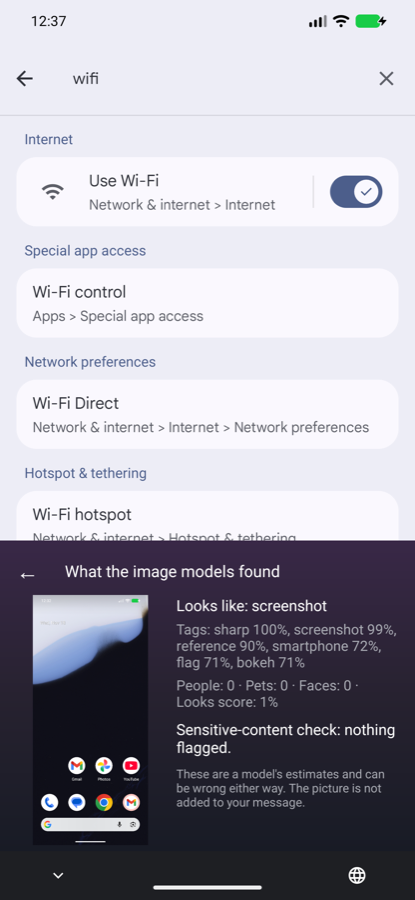
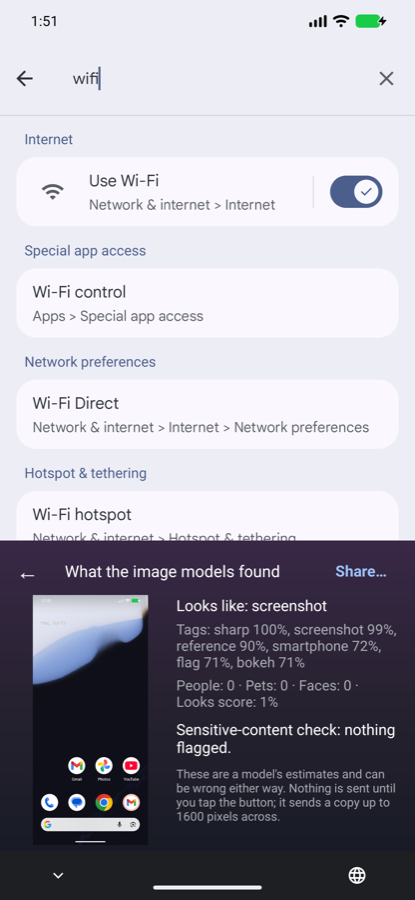
Keyboard picture panel: Insert or Share, with a warning before a flagged picture
Asked for by the owner after trying the panel on the phone. The panel's
heading row now carries one button: Insert where the focused field says it
takes image/jpeg, Share through the system sheet elsewhere or if the host
turns the insert down. A picture Moderator flagged is sent only after the
heading has turned into the warning and the button has been tapped a second
time. What is sent is the copy the models looked at, up to 1600 pixels
across; nothing is sent before the tap.

The drawing panel's send code was moved into one routine that both panels
use.

Three more tests in KeyboardImageTest, each failing first; DrawingTest still
8 of 8. Suite on the emulator: 184 run, 167 passed, 17 skipped by design,
none failed. On the phone only the first version has been tried.

diff --git a/app/src/main/java/com/example/aikeyboard/ime/KeyboardController.java b/app/src/main/java/com/example/aikeyboard/ime/KeyboardController.java
@@ -139,6 +139,9 @@ public final class KeyboardController implements KeyGridView.Listener,
     // It is the Image tools screen's own worker, used here as a plain object.
     private final ImageToolsFragment.Session pictures;
     private boolean pictureShown;
+    // What the panel's heading says instead of its title: the warning a flagged picture
+    // gets before it is sent, or that it could not be sent. 0 for neither.
+    private int pictureNotice;
     // Which field a held picture belongs to, or null when none is held. A picture is chosen
     // in the system's picker, which covers the app, so it arrives while no field has the
     // keyboard: it belongs to the field the picker was opened from, and is shown whenever
@@ -189,6 +192,7 @@ public final class KeyboardController implements KeyGridView.Listener,
             closePicture();
             render();
         });
+        views.picturePanel.pictureSend.setOnClickListener(v -> sendPicture());
         views.drawPanel.drawBack.setOnClickListener(v -> showDrawPanel(false));
         views.drawPanel.drawClear.setOnClickListener(v -> clearDrawing());
         views.drawPanel.drawInsert.setOnClickListener(v -> insertDrawing());
@@ -656,6 +660,7 @@ public final class KeyboardController implements KeyGridView.Listener,
         // No field to show it in, or the image models went away meanwhile: not kept.
         if (field == null || !imageModelUsable()) return;
         pictureFor = field;
+        pictureNotice = 0;
         pictures.open(picture);
         // Usually the picker is still covering the app, and the picture is shown when its
         // field has the keyboard again (onStartInput). If the keyboard is up now, show it.
@@ -670,7 +675,28 @@ public final class KeyboardController implements KeyGridView.Listener,
     private void closePicture() {
         pictureShown = false;
         pictureFor = null;
+        pictureNotice = 0;
         pictures.forget();
+    }
+
+    // Sends the picture the way a drawing is sent. Moderator warns and never blocks: the
+    // first tap on a flagged picture only says so, and the second is the user's decision.
+    private void sendPicture() {
+        ImageToolsFragment.State state = pictures.state().getValue();
+        if (session == null || !pictureShown || !state.analysed()) return;
+        if (state.flagged() && pictureNotice != R.string.picture_warning) {
+            pictureNotice = R.string.picture_warning;
+            renderPicturePanel();
+            return;
+        }
+        send(state.picture, ShareResultController.JPEG,
+                service.getString(R.string.image_preview), () -> {
+                    closePicture();
+                    render();
+                }, () -> {
+                    pictureNotice = R.string.image_share_failed;
+                    if (views != null && pictureShown) renderPicturePanel();
+                });
     }
 
     private static String fieldKey(EditorInfo info) {
@@ -679,8 +705,16 @@ public final class KeyboardController implements KeyGridView.Listener,
 
     private void renderPicturePanel() {
         ImageToolsFragment.State state = pictures.state().getValue();
-        views.picturePanel.pictureStatus.setText(
-                state.working ? R.string.image_working : R.string.picture_title);
+        views.picturePanel.pictureStatus.setText(state.working ? R.string.image_working
+                : pictureNotice != 0 ? pictureNotice : R.string.picture_title);
+        // The button says what will happen here: not every field takes pictures.
+        boolean takesPictures = EditorBridge.accepts(editorInfo, ShareResultController.JPEG);
+        boolean warned = pictureNotice == R.string.picture_warning;
+        views.picturePanel.pictureSend.setText(takesPictures
+                ? (warned ? R.string.picture_insert_anyway : R.string.draw_insert)
+                : (warned ? R.string.image_share_anyway : R.string.draw_share));
+        views.picturePanel.pictureSend.setEnabled(state.analysed());
+        views.picturePanel.pictureSend.setAlpha(state.analysed() ? 1f : 0.4f);
         views.picturePanel.picturePreview.setImageBitmap(state.picture);
         // INVISIBLE, not GONE: the picture keeps its share of the width while it is looked at.
         views.picturePanel.pictureResult.setVisibility(
@@ -749,37 +783,44 @@ public final class KeyboardController implements KeyGridView.Listener,
                         ? R.string.draw_insert : R.string.draw_share);
     }
 
-    // The tap is the user's consent. The picture goes into the field if the field takes
-    // pictures; if it does not, or the host app turns it down, the share sheet is offered.
     private void insertDrawing() {
         if (session == null || views == null) return;
-        Bitmap drawing = views.drawPanel.drawSurface.render();
-        InputSession drawnFor = session;
+        send(views.drawPanel.drawSurface.render(), ShareResultController.PNG,
+                service.getString(R.string.shape_other), () -> {
+                    closeDrawing();
+                    render();
+                }, () -> {
+                    drawStatus = R.string.image_share_failed;
+                    if (views != null && drawShown) renderDrawPanel();
+                });
+    }
+
+    // How a drawing or a chosen picture leaves the keyboard. The tap is the user's consent.
+    // The picture goes into the field if the field takes pictures; if it does not, or the
+    // host app turns it down, the share sheet is offered.
+    private void send(Bitmap picture, String mime, String label, Runnable sent,
+            Runnable failed) {
+        InputSession sentFor = session;
         EditorInfo field = editorInfo;
-        String label = service.getString(R.string.shape_other);
         app.io.execute(() -> {
             Uri uri;
             try {
-                uri = ShareResultController.writePicture(service, drawing,
-                        ShareResultController.PNG);
+                uri = ShareResultController.writePicture(service, picture, mime);
             } catch (IOException e) {
                 uri = null;
             }
             Uri written = uri;
             ContextCompat.getMainExecutor(service).execute(() -> {
                 // The field changed while the picture was being written: nothing is sent.
-                if (session != drawnFor) return;
+                if (session != sentFor) return;
                 if (written == null) {
-                    drawStatus = R.string.image_share_failed;
-                    if (views != null && drawShown) renderDrawPanel();
+                    failed.run();
                     return;
                 }
-                if (!editor.commitContent(field, written, ShareResultController.PNG, label)) {
-                    service.share(ShareResultController.shareIntent(written,
-                            ShareResultController.PNG));
+                if (!editor.commitContent(field, written, mime, label)) {
+                    service.share(ShareResultController.shareIntent(written, mime));
                 }
-                closeDrawing();
-                render();
+                sent.run();
             });
         });
     }

diff --git a/app/src/androidTest/java/com/example/aikeyboard/KeyboardImageTest.java b/app/src/androidTest/java/com/example/aikeyboard/KeyboardImageTest.java
@@ -1,6 +1,7 @@
 // The keyboard's picture button and panel. The button is offered only while an image model
 // can really run and the field allows AI. A picture chosen in the system's picker comes back
-// to the keyboard, and what the image models found is shown there; the field is not touched.
+// to the keyboard, and what the image models found is shown there; the field is not touched
+// until the user taps Insert, and a flagged picture is sent only after a warning.
 // The system's picker cannot be driven by a test, so a picture is handed over the way the
 // picker screen hands it over once it has read the chosen file.
 package com.example.aikeyboard;
@@ -9,9 +10,11 @@ import static androidx.test.platform.app.InstrumentationRegistry.getInstrumentat
 import static org.junit.Assert.assertEquals;
 import static org.junit.Assert.assertFalse;
 import static org.junit.Assert.assertNotNull;
+import static org.junit.Assert.assertNull;
 import static org.junit.Assert.assertTrue;
 
 import android.graphics.Bitmap;
+import android.graphics.BitmapFactory;
 import android.widget.EditText;
 
 import androidx.lifecycle.Lifecycle;
@@ -26,12 +29,14 @@ import androidx.test.uiautomator.Until;
 
 import com.example.aikeyboard.data.AppSettings;
 import com.example.aikeyboard.data.SettingsRepository;
+import com.example.aikeyboard.models.ModelRegistry;
 
 import org.junit.After;
 import org.junit.Before;
 import org.junit.Test;
 import org.junit.runner.RunWith;
 
+import java.io.InputStream;
 import java.util.concurrent.atomic.AtomicBoolean;
 
 @RunWith(AndroidJUnit4.class)
@@ -41,6 +46,8 @@ public class KeyboardImageTest {
     private static final String IME_ID = PKG + "/.ime.AiInputMethodService";
     private static final long TIMEOUT_MS = 8000;
     private static final long RUN_MS = 60_000;
+    private static final String THRESHOLD =
+            AppSettings.modelSettingKey("moderator", ModelRegistry.MODERATOR_THRESHOLD);
 
     private final AppContainer app = TestModels.container();
     private final SettingsRepository settings = app.settings;
@@ -59,6 +66,9 @@ public class KeyboardImageTest {
             settings.setModelEnabled(other, false);
         }
         use(true);
+        settings.setInt(THRESHOLD, ModelRegistry.MODERATOR_THRESHOLD_DEFAULT);
+        EditorTestActivity.lastContentMime = null;
+        EditorTestActivity.lastContentUri = null;
         settings.setBoolean(AppSettings.AI_ENABLED, true);
         assertTrue(TestModels.await(() -> settings.latest().modelActive("moderator"), 5000));
         scenario = ActivityScenario.launch(EditorTestActivity.class);
@@ -68,6 +78,7 @@ public class KeyboardImageTest {
     public void tearDown() throws Exception {
         if (scenario != null) scenario.close();
         use(false);
+        settings.setInt(THRESHOLD, ModelRegistry.MODERATOR_THRESHOLD_DEFAULT);
         settings.setBoolean(AppSettings.AI_ENABLED, false);
     }
 
@@ -178,6 +189,70 @@ public class KeyboardImageTest {
         String kind = shown("picture_kind", RUN_MS);
         assertNotNull("the picture chosen while away was not shown on return", kind);
         assertTrue(kind, kind.startsWith("Looks like"));
+    }
+
+    @Test
+    public void aCheckedPictureIsInsertedWhereTheFieldTakesPictures() throws Exception {
+        focus("field_rich");
+        handOver();
+        assertNotNull(shown("picture_sensitivity", RUN_MS));
+        assertNull("nothing is sent until Insert is tapped", EditorTestActivity.lastContentUri);
+        UiObject2 send = device.findObject(By.res(PKG, "picture_send"));
+        assertEquals("the button says what will happen in this field", "Insert", send.getText());
+
+        send.click();
+
+        assertTrue("the editor never received the picture", TestModels.await(
+                () -> EditorTestActivity.lastContentUri != null, TIMEOUT_MS));
+        assertEquals("image/jpeg", EditorTestActivity.lastContentMime);
+        // The editor was given a read grant with it: the picture really opens.
+        try (InputStream in = getInstrumentation().getTargetContext().getContentResolver()
+                .openInputStream(EditorTestActivity.lastContentUri)) {
+            assertNotNull("what arrived is not a picture", BitmapFactory.decodeStream(in));
+        }
+        assertTrue("the panel closes and the keys come back",
+                device.wait(Until.gone(By.res(PKG, "picture_panel")), TIMEOUT_MS));
+    }
+
+    @Test
+    public void whereTheFieldTakesNoPicturesTheShareSheetIsOffered() throws Exception {
+        focus("field_plain");
+        handOver();
+        assertNotNull(shown("picture_sensitivity", RUN_MS));
+        UiObject2 send = device.findObject(By.res(PKG, "picture_send"));
+        assertEquals("Share…", send.getText());
+
+        send.click();
+
+        assertTrue("the system share sheet did not open",
+                device.wait(Until.gone(By.res(PKG, "field_plain")), 10_000));
+        assertNull("a plain text field must not be handed a picture",
+                EditorTestActivity.lastContentUri);
+        device.pressBack();
+        assertTrue(device.wait(Until.hasObject(By.res(PKG, "field_plain")), 10_000));
+    }
+
+    @Test
+    public void aFlaggedPictureIsSentOnlyAfterAWarningAndASecondTap() throws Exception {
+        // Zero is the model's own threshold at its strictest: every picture is flagged.
+        settings.setInt(THRESHOLD, 0);
+        assertTrue(TestModels.await(() -> settings.latest().integer(THRESHOLD, -1) == 0, 5000));
+        focus("field_rich");
+        handOver();
+        String check = shown("picture_sensitivity", RUN_MS);
+        assertNotNull(check);
+        assertTrue(check, check.contains("may contain nudity"));
+
+        device.findObject(By.res(PKG, "picture_send")).click();
+
+        UiObject2 again = device.wait(Until.findObject(
+                By.res(PKG, "picture_send").text("Insert anyway")), TIMEOUT_MS);
+        assertNotNull("a flagged picture needs a warning before it is sent", again);
+        assertNull("the first tap only warns", EditorTestActivity.lastContentUri);
+
+        again.click();
+        assertTrue("after the warning the choice is the user's", TestModels.await(
+                () -> EditorTestActivity.lastContentUri != null, TIMEOUT_MS));
     }
 
     // The whole trip through the system's own picker. Only on request (-e picker true) and

diff --git a/app/src/main/java/com/example/aikeyboard/ui/tools/ImageToolsFragment.java b/app/src/main/java/com/example/aikeyboard/ui/tools/ImageToolsFragment.java
@@ -76,6 +76,11 @@ public final class ImageToolsFragment extends Fragment {
         public boolean analysed() {
             return picture != null && !working;
         }
+
+        /** Whether the sensitive-content check ran on this picture and flagged it. */
+        public boolean flagged() {
+            return sensitivity != null && sensitivity.flagged;
+        }
     }
 
     /**

diff --git a/PROGRESS.md b/PROGRESS.md
@@ -15,7 +15,7 @@ The execution plan is `~/.claude/plans/i-have-added-a-whimsical-mist.md` (approv
 | 8 — Visual and accessibility audit | Done (emulator). Device rows blocked | 160 unit tests, 151 instrumented tests. Screens set beside both reference images and brought closer: drawn icons, grouped cards, the reference's switches, emoji chips, an app icon. The audit found the AI panel had outgrown the keyboard; every panel now keeps the keyboard's footprint. The app's screens pass Google's accessibility checks; keyboard controls are labelled and full-size; contrast and reduced motion are tested; large text checked at 1.3×. A pass with TalkBack on waits for the phone. |
 | 9 — Complete-version hardening | Emulator part done. **Phone session open** | 161 unit tests, 158 instrumented tests (145 passed, 13 opt-in probes skipped) at the end of the milestone; clean build, 700.1 MB debug APK. Model runs send and receive nothing; nothing typed is kept on disk or in the log; the keyboard survives its process being killed, sleep and wake, rotation, and a cold start offline; overlapping download, delete and reset behave. Every check that needs a real phone (chat apps, latency, memory, battery, a real voice, TalkBack) is blocked until one is connected. |
 | Phone session | **In progress** | Started 18 Nov 2026 on a OnePlus CPH2423 (Android 15, 12 GB). Done without the owner's hands: install, all 13 models running, Clear on the phone's GPU, memory, network silence. Waiting for the owner to enable the keyboard. See the validation report, "Phone session". |
-| Picture panel in the keyboard | Done (emulator). Not yet on the phone | Added 18 Nov 2026 at the owner's request, during the phone session: a picture button on the keyboard while Eye or Moderator is on; the chosen picture is described and checked in a keyboard panel. Seven tests, one of them through Android's real picker. See the validation report. |
+| Picture panel in the keyboard | Done (emulator). Phone results not recorded | Added 18 Nov 2026 at the owner's request, during the phone session: a picture button on the keyboard while Eye or Moderator is on; the chosen picture is described and checked in a keyboard panel, and can be inserted or shared from there, a flagged one only after a warning. Ten tests, one of them through Android's real picker. See the validation report. |
 | Final review | Done. Ten small findings deferred | One independent review of the whole branch; one fix pass (see "Final review"). After it: 161 unit tests, 171 instrumented tests (158 passed, 13 opt-in probes skipped, none failed), lint 0 errors, clean build. The review found that the keyboard's AI could read a password field while the on-screen keyboard was hidden; that is fixed and tested from the field's side. |
 
 ## Environment
@@ -142,13 +142,17 @@ Rulings from the phone session:
 
 Rulings for the picture panel, added on 18 Nov 2026 at the owner's request:
 
-98. **Picture panel: it shows what the image models found and does nothing else.** The owner asked for a picture option on the keyboard with the analysis shown there. Inserting or sharing the picture from the panel was not asked for and is not built; the picture is attached with the chat app as usual. Cost if wrong: one more step for someone who wanted to send it from the keyboard; adding Insert or Share is a contained addition, as the drawing panel already has both.
+98. **Picture panel: first built to show what the image models found and nothing else; sending was added the same day when the owner asked for it.** It now sends the way the drawing panel does: Insert where the field says it takes `image/jpeg`, Share through the system sheet elsewhere or if the host turns the insert down. Cost if wrong: none; the two-step build cost one extra install on the phone.
 99. **The picker is opened by a screen of the app that shows nothing of its own** (`ui/tools/ImagePickActivity`), in a task of its own so that closing it returns to the app being typed into. It reads the picture before it closes, because on some devices the right to read ends with the screen that was given it. Cost if wrong: on a device where the keyboard does not come back by itself, the user taps the field and the result is there.
 100. **A picture belongs to the field the picker was opened from.** It is shown whenever that field has the keyboard and AI may run there; it is let go of on Back, when any other real field takes the keyboard, or when the image models go off. A window with nothing to type into decides nothing. It is not dropped when the keyboard merely hides. Cost if wrong: one picture of at most 1600 pixels can stay in memory while the keyboard is hidden, until another field is used or the process ends.
 101. **The keyboard uses the Image tools screen's own worker and its result text** (`ImageToolsFragment.Session`, `showResult`) rather than a second copy. Cost if wrong: the keyboard depends on a class in `ui/tools`; pull the shared part out if a third user appears.
 102. **The picture button takes the spare place beside the draw button** on the tool row (ruling 63 kept two places each side of the AI control). Cost if wrong: swap two buttons.
 103. **Android's real picker is driven by one opt-in test, on an emulator only.** The picker shows the device's own pictures, so the test must never be run on somebody's phone; on the phone the owner tries it by hand. Cost if wrong: the real picker is not exercised by the normal suite.
 104. **Noticed and not changed: the microphone permission screen has no task of its own.** If the companion app is open in the background, closing that screen probably lands on the companion app instead of the app being typed into. Not verified. Cost if wrong: a confusing detour the first time someone dictates. The remedy is the one line `ImagePickActivity` has.
+105. **A flagged picture is sent only after a warning and a second tap.** Moderator warns and never blocks (ruling 55). In the keyboard there is no dialog: the first tap changes the heading to the warning and the button to "Insert anyway" or "Share anyway". Cost if wrong: someone taps twice quickly without reading; the choice was always theirs.
+106. **What is sent is the copy the models looked at, up to 1600 pixels across, as a JPEG** (ruling 54), and the panel says so. Cost if wrong: someone wanting the original at full size attaches it with the chat app instead.
+107. **The drawing panel and the picture panel share one send routine.** The drawing's own code was moved into it rather than copied. Cost if wrong: none; `DrawingTest` covers the drawing side.
+108. **Never auto-send still holds, with one thing to know:** Insert hands the picture to the app, and some chat apps send an inserted picture at once instead of attaching it to the draft. The tap on Insert is the user's decision, as it is for a drawing. Cost if wrong: a picture goes out one step earlier than someone expected in such an app; not seen yet, to be watched on the phone.
 
 ## Final review
 

diff --git a/docs/validation-report.md b/docs/validation-report.md
@@ -488,7 +488,7 @@ The test changes made during the phone session were then run as the whole suite 
 
 ## Picture panel in the keyboard (added 18 Nov 2026)
 
-Asked for by the owner during the phone session: a picture button on the keyboard while the image models are on, with the result shown in the keyboard. Android's picker is a full-screen system screen, so the keyboard steps aside while a picture is chosen and comes back with the result. The panel shows what Eye and Moderator found; it does not insert or share the picture.
+Asked for by the owner during the phone session: a picture button on the keyboard while the image models are on, with the result shown in the keyboard. Android's picker is a full-screen system screen, so the keyboard steps aside while a picture is chosen and comes back with the result. The panel shows what Eye and Moderator found. At the owner's next request it also sends the picture: Insert where the field takes pictures, Share elsewhere, and a flagged picture only after a warning and a second tap.
 
 | Check | Result | Target | Evidence |
 |---|---|---|---|
@@ -498,12 +498,18 @@ Asked for by the owner during the phone session: a picture button on the keyboar
 | A chosen picture is described and checked in the keyboard; the draft is untouched; Back returns to the keys | failed, then passed | EMU-37B | `KeyboardImageTest.aChosenPictureIsDescribedAndCheckedInTheKeyboard` |
 | A picture chosen while the keyboard is away is shown when it returns | failed, then passed | EMU-37B | `KeyboardImageTest.aPictureChosenWhileTheKeyboardIsAwayIsShownWhenItReturns`. The first two versions of the feature failed this: Android starts a field's input twice within milliseconds on the way back, and a window with nothing to type into can hold the keyboard for a moment. A picture is now tied to the field the picker was opened from |
 | Moving to another field closes the panel and forgets the picture | failed, then passed | EMU-37B | `KeyboardImageTest.movingToAnotherFieldClosesThePanelAndForgetsThePicture` |
+| A checked picture is inserted where the field takes pictures; nothing is sent before the tap; the panel then closes | failed, then passed | EMU-37B | `KeyboardImageTest.aCheckedPictureIsInsertedWhereTheFieldTakesPictures`: the debug host's picture field received an `image/jpeg` it could open |
+| Where the field takes no pictures the button says Share and opens the system share sheet | failed, then passed | EMU-37B | `KeyboardImageTest.whereTheFieldTakesNoPicturesTheShareSheetIsOffered` |
+| A flagged picture is sent only after a warning and a second tap | failed, then passed | EMU-37B | `KeyboardImageTest.aFlaggedPictureIsSentOnlyAfterAWarningAndASecondTap`, with Moderator's threshold at zero so that a harmless picture is flagged (no explicit imagery is used) |
+| The drawing panel still inserts and shares after its send path was shared with the picture panel | passed | EMU-37B | `DrawingTest` 8 of 8 |
 | The whole trip through Android's real picker | passed | EMU-37B | `KeyboardImageTest.theSystemsPickerHandsAChosenPictureBackToTheKeyboard`, opt-in with `-e picker true`, three runs. Emulator only: the picker shows the device's own pictures, so it must not be run on a phone |
 | From another app's field: the picker returns to that app, not to AI Keyboard, and the keyboard comes back by itself with the result | passed by hand | EMU-37B | Settings search, driven over adb: picture button, picker, a picture, Done. Focus returned to Settings search; the panel read "Looks like: screenshot" and "Sensitive-content check: nothing flagged." `docs/evidence/screenshots/picture_panel_keyboard.png` |
-| On the phone | not run | PHONE | The build with this feature has not been installed on the phone yet |
+| On the phone, the first version (analysis only) | observed, not reported | PHONE | Installed on 18 Nov 2026. A minute later the app's memory on the phone rose from about 140 MB to 1.0 GB for some twenty seconds and fell back: the image models loading, running and being let go of in the keyboard's process. No crash, the same process throughout, the keyboard still selected. The owner then asked for sending from the panel. What they saw on screen was not reported |
+| On the phone, the build with sending | not run | PHONE | — |
+| Inserting into a real chat app | not run | PHONE | What a chat app does with an inserted picture (attach it, or send it at once) is that app's choice and has not been seen |
 | A file that cannot be read as a picture; the screen turned while the picker is open | not run | — | The code is there (a message is shown; the picker is not opened twice); no test drives either |
 
-After the feature: 161 unit tests, lint 0 errors and 37 warnings, and the whole suite on the emulator (EMU-37B, `-e clear true`): 181 run, 164 passed, 17 skipped by design (13 opt-in probes, the three latency measurements and the real-picker test), none failed.
+After the feature, with sending: 161 unit tests, lint 0 errors and 37 warnings, and the whole suite on the emulator (EMU-37B, `-e clear true`): 184 run, 167 passed, 17 skipped by design (13 opt-in probes, the three latency measurements and the real-picker test), none failed.
 
 ## The handoff checklist, item by item
 

diff --git a/docs/model-compatibility.md b/docs/model-compatibility.md
@@ -81,7 +81,7 @@ Each revision above is the one compiled into that model's native library (a `vN.
 
 - A picked picture is read once through the system photo picker and held in memory at up to 1600 pixels across. It is not copied to disk, and the app asks for no storage permission.
 - A drawing lives in the drawing surface and is gone when the screen or the keyboard's panel is left.
-- A picture chosen from the keyboard's picture button (added 18 Nov 2026) is read by a screen of the app that shows nothing itself, handed to the keyboard in memory, and looked at by Eye and Moderator there. It belongs to the field the picker was opened from: it is shown whenever that field has the keyboard, and let go of when the panel is closed, when any other field takes the keyboard, or when the image models are switched off. It is never added to the message and never written to disk.
+- A picture chosen from the keyboard's picture button (added 18 Nov 2026) is read by a screen of the app that shows nothing itself, handed to the keyboard in memory, and looked at by Eye and Moderator there. It belongs to the field the picker was opened from: it is shown whenever that field has the keyboard, and let go of when the panel is closed, when any other field takes the keyboard, or when the image models are switched off. Nothing is added to the message until the user taps the panel's button. That tap writes one JPEG copy, up to 1600 pixels across, to `cache/shared/` and hands it to the field (Insert) or to the system share sheet (Share), exactly as for a picture shared from the Image tools screen; a flagged picture is sent only after a warning and a second tap.
 - Sharing or inserting writes one file (JPEG for a picture, PNG for a drawing) to `cache/shared/`, handed over through a content URI with a read grant for that use, and deleted after an hour like shared audio.
 - From the keyboard, a drawing is inserted with `commitContent` only where the focused field says it accepts `image/png`; anywhere else, or if the host app turns it down, the system share sheet is offered instead.
 
